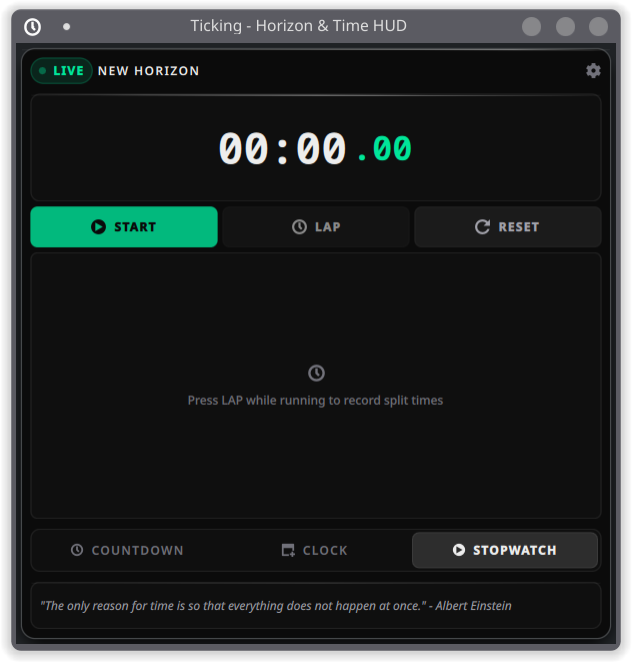
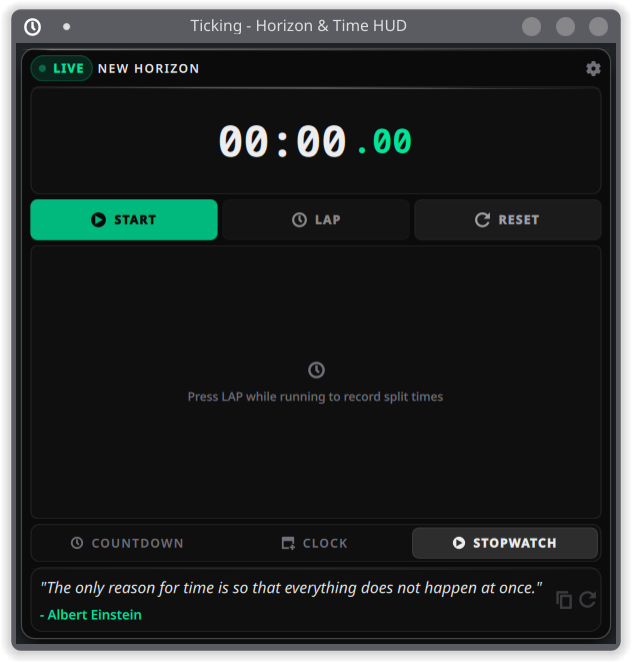
style(ui): redesign quote capsule into readable multi-line dropdown tray with accent author
Ultraworked with [Sisyphus](https://github.com/code-yeongyu/oh-my-openagent)

diff --git a/contents/ui/components/QuoteBar.qml b/contents/ui/components/QuoteBar.qml
@@ -28,9 +28,9 @@ Kirigami.ShadowedRectangle {
     }
 
     Layout.fillWidth: true
-    Layout.preferredHeight: authorLabel.visible ? (quoteLabel.lineCount > 1 ? Kirigami.Units.gridUnit * 2.8 : Kirigami.Units.gridUnit * 2.3) : Kirigami.Units.gridUnit * 1.9
-    Layout.minimumHeight: Kirigami.Units.gridUnit * 1.8
-    radius: 8
+    Layout.preferredHeight: authorLabel.visible ? (quoteLabel.lineCount > 1 ? Kirigami.Units.gridUnit * 3.6 : Kirigami.Units.gridUnit * 3.0) : Kirigami.Units.gridUnit * 2.4
+    Layout.minimumHeight: Kirigami.Units.gridUnit * 2.2
+    radius: 10
     color: capsuleMouse.containsMouse ? root.themeColors.subCardHover : root.themeColors.subCardBg
     border.width: 1
     border.color: capsuleMouse.containsMouse ? root.themeColors.cardBorderHover : root.themeColors.cardBorder
@@ -65,13 +65,13 @@ Kirigami.ShadowedRectangle {
         anchors.fill: parent
         anchors.leftMargin: Kirigami.Units.largeSpacing
         anchors.rightMargin: Kirigami.Units.smallSpacing
-        anchors.topMargin: 3
-        anchors.bottomMargin: 3
+        anchors.topMargin: Kirigami.Units.smallSpacing * 1.2
+        anchors.bottomMargin: Kirigami.Units.smallSpacing * 1.2
         spacing: Kirigami.Units.smallSpacing
 
         ColumnLayout {
             Layout.fillWidth: true
-            spacing: 1
+            spacing: 2
 
             Text {
                 id: quoteLabel
@@ -79,10 +79,11 @@ Kirigami.ShadowedRectangle {
                 text: quoteBarRoot.quoteText.length > 0
                     ? ("\"" + quoteBarRoot.quoteText + "\"")
                     : i18nc("@info:placeholder", "Focus on the horizon ahead.")
-                color: root.themeColors.textSecondary
+                color: root.themeColors.textPrimary
                 font.family: "sans-serif"
-                font.pixelSize: Math.max(10, Kirigami.Theme.smallFont.pixelSize)
+                font.pixelSize: Math.max(13, Kirigami.Theme.defaultFont.pixelSize)
                 font.italic: true
+                lineHeight: 1.2
                 wrapMode: Text.WordWrap
                 maximumLineCount: 2
                 elide: Text.ElideRight
@@ -99,7 +100,7 @@ Kirigami.ShadowedRectangle {
                 text: quoteBarRoot.quoteAuthor.length > 0 ? ("- " + quoteBarRoot.quoteAuthor) : ""
                 color: quoteBarRoot.accentColor
                 font.family: "sans-serif"
-                font.pixelSize: Math.max(9, Kirigami.Theme.smallFont.pixelSize - 1)
+                font.pixelSize: Math.max(11, Kirigami.Theme.smallFont.pixelSize + 1)
                 font.weight: Font.DemiBold
                 elide: Text.ElideRight
                 maximumLineCount: 1
@@ -109,8 +110,8 @@ Kirigami.ShadowedRectangle {
         Kirigami.Icon {
             id: copyIcon
             source: quoteBarRoot.isCopied ? "emblem-checked" : "edit-copy"
-            Layout.preferredWidth: 14
-            Layout.preferredHeight: 14
+            Layout.preferredWidth: 16
+            Layout.preferredHeight: 16
             color: quoteBarRoot.isCopied
                 ? quoteBarRoot.accentColor
                 : (copyMouse.containsMouse ? root.themeColors.textPrimary : root.themeColors.textMuted)
@@ -148,8 +149,8 @@ Kirigami.ShadowedRectangle {
         Kirigami.Icon {
             id: refreshIcon
             source: "view-refresh"
-            Layout.preferredWidth: 14
-            Layout.preferredHeight: 14
+            Layout.preferredWidth: 16
+            Layout.preferredHeight: 16
             color: refreshMouse.containsMouse ? root.themeColors.textPrimary : root.themeColors.textMuted
             opacity: refreshMouse.containsMouse || quoteBarRoot.isLoading ? 1.0 : (capsuleMouse.containsMouse ? 0.85 : 0.45)
             Accessible.name: i18nc("@action:button", "New quote")

diff --git a/contents/ui/FullRepresentation.qml b/contents/ui/FullRepresentation.qml
@@ -9,9 +9,9 @@ Item {
     id: fullRoot
 
     Layout.minimumWidth: Kirigami.Units.gridUnit * 18
-    Layout.minimumHeight: Kirigami.Units.gridUnit * 15
+    Layout.minimumHeight: Kirigami.Units.gridUnit * 16
     Layout.preferredWidth: Kirigami.Units.gridUnit * 22
-    Layout.preferredHeight: Kirigami.Units.gridUnit * 18.5
+    Layout.preferredHeight: Kirigami.Units.gridUnit * 20
 
     property int activeTabIndex: typeof root !== "undefined" ? root.currentViewIndex : 0
 
